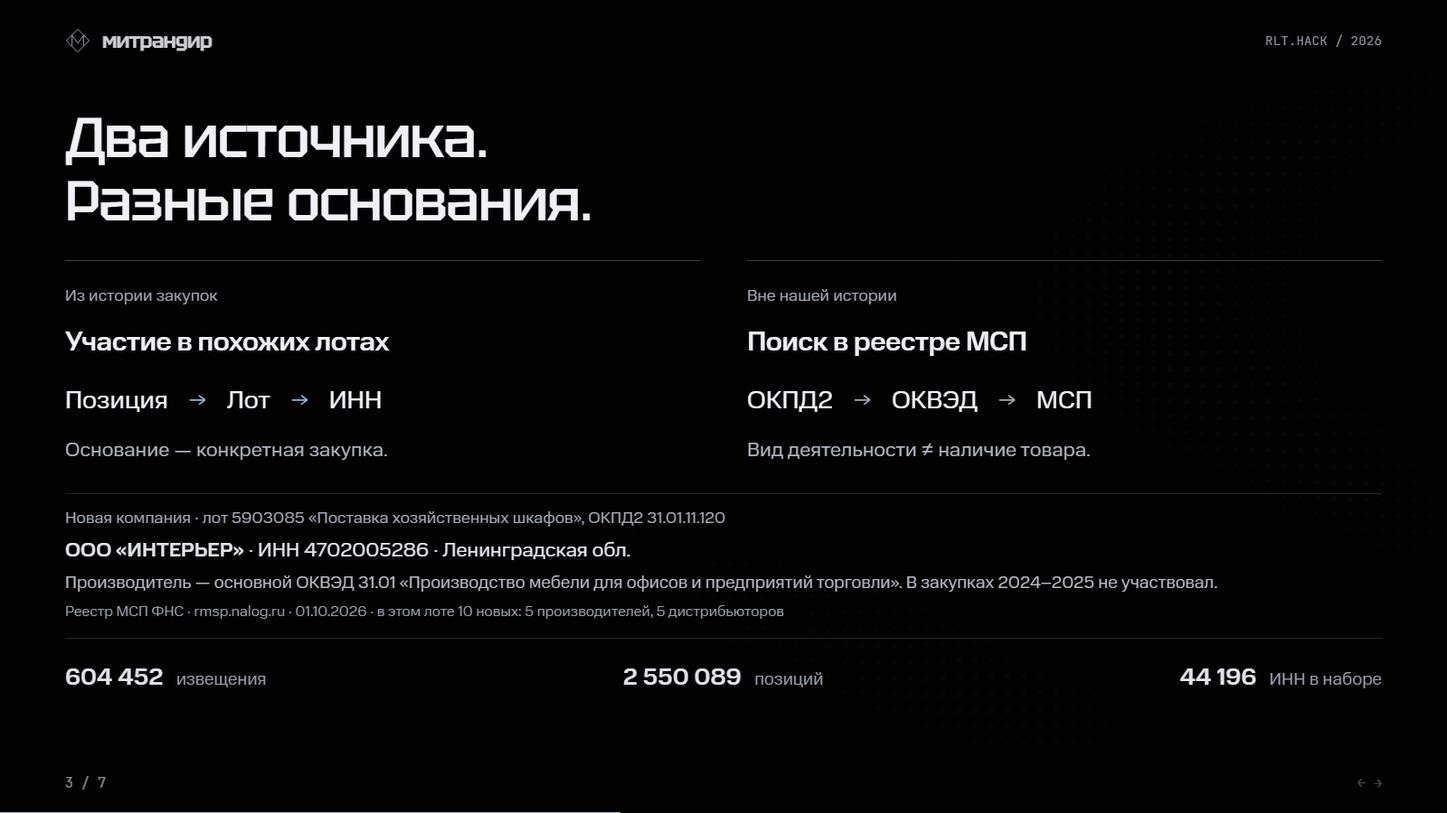
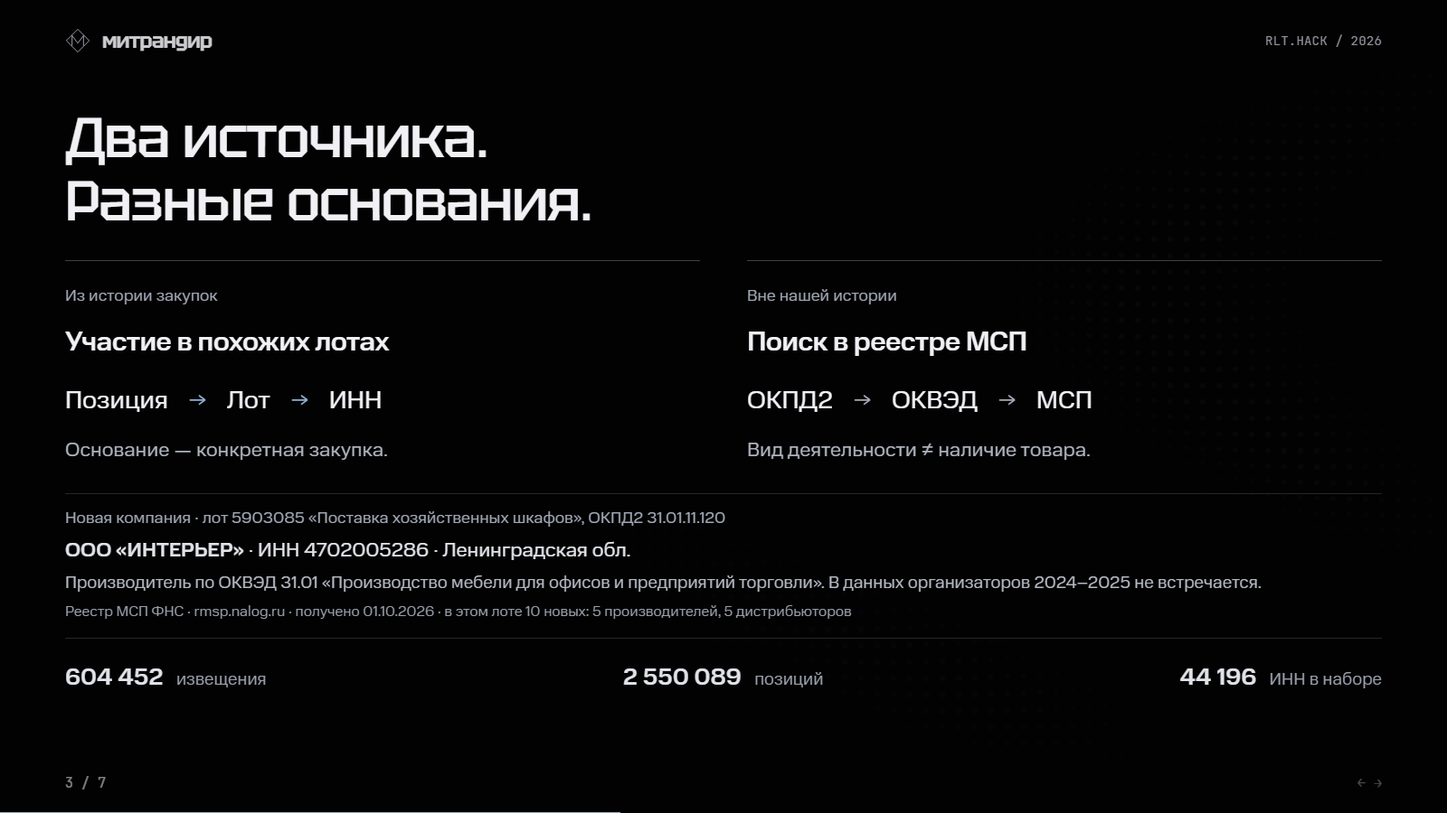
app: ревью #418 — storyboard/defense-structure/outline без «пустого блока», формулировки S3 по ответу продукта, анимация .new-example, content-check сверяет название, ОКВЭД, дату и разбивку ролей (#415)

Changed region(s): [[0.125, 0.6844, 0.875, 0.7778]]

diff --git a/presentation/index.html b/presentation/index.html
@@ -30,9 +30,9 @@
  <article class="candidate-branch"><span class="branch-label">Из истории закупок</span><h2>Участие в похожих лотах</h2><div class="branch-route"><span>Позиция</span><b>→</b><span>Лот</span><b>→</b><span>ИНН</span></div><p>Основание — конкретная закупка.</p></article>
  <article class="candidate-branch registry"><span class="branch-label">Вне нашей истории</span><h2>Поиск в реестре МСП</h2><div class="branch-route"><span>ОКПД2</span><b>→</b><span>ОКВЭД</span><b>→</b><span>МСП</span></div><p>Вид деятельности ≠ наличие товара.</p></article>
 </div>
-<div class="new-example"><span class="branch-label">Новая компания · лот 5903085 «Поставка хозяйственных шкафов», ОКПД2 31.01.11.120</span><p class="new-example-name"><b>ООО «ИНТЕРЬЕР»</b> · ИНН 4702005286 · Ленинградская обл.</p><p>Производитель — основной ОКВЭД 31.01 «Производство мебели для офисов и предприятий торговли». В закупках 2024–2025 не участвовал.</p><p class="new-example-source">Реестр МСП ФНС · rmsp.nalog.ru · 01.10.2026 · в этом лоте 10 новых: 5 производителей, 5 дистрибьюторов</p></div>
+<div class="new-example"><span class="branch-label">Новая компания · лот 5903085 «Поставка хозяйственных шкафов», ОКПД2 31.01.11.120</span><p class="new-example-name"><b>ООО «ИНТЕРЬЕР»</b> · ИНН 4702005286 · Ленинградская обл.</p><p>Производитель по ОКВЭД 31.01 «Производство мебели для офисов и предприятий торговли». В данных организаторов 2024–2025 не встречается.</p><p class="new-example-source">Реестр МСП ФНС · rmsp.nalog.ru · получено 01.10.2026 · в этом лоте 10 новых: 5 производителей, 5 дистрибьюторов</p></div>
 <div class="corpus-strip"><span><b>604 452</b> извещения</span><span><b>2 550 089</b> позиций</span><span><b>44 196</b> ИНН в наборе</span></div>
-<aside class="speaker-note" hidden>В обработанных данных — более шестисот тысяч извещений. Для компаний из истории мы используем прямые связи с конкретными закупками. Для компаний вне истории реализована отдельная ветка: сопоставление ОКПД2 и ОКВЭД и поиск в реестре МСП. Это другой тип основания: подходящий вид деятельности ещё не доказывает наличие конкретного товара. Поэтому такие кандидаты выделены отдельно. Пример — лот 5903085, поставка хозяйственных шкафов: кроме двадцати компаний из истории сервис нашёл десять новых, которых нет в данных организаторов. Например, ООО «Интерьер» из Ленинградской области: основной ОКВЭД — производство офисной мебели, значит вероятно производитель; запись реестра МСП ФНС от первого октября. Мы честно пишем, что это совпадение по виду деятельности, а не по конкретному товару.<br><br>Переход: Основной путь запроса устроен следующим образом</aside></section>
+<aside class="speaker-note" hidden>В обработанных данных — более шестисот тысяч извещений. Для компаний из истории мы используем прямые связи с конкретными закупками. Для компаний вне истории реализована отдельная ветка: сопоставление ОКПД2 и ОКВЭД и поиск в реестре МСП. Это другой тип основания: подходящий вид деятельности ещё не доказывает наличие конкретного товара. Поэтому такие кандидаты выделены отдельно. Пример — лот 5903085, поставка хозяйственных шкафов: кроме кандидатов из истории сервис нашёл десять новых компаний, которых нет в данных организаторов. Например, ООО «Интерьер» из Ленинградской области: основной ОКВЭД — производство офисной мебели, значит вероятно производитель; данные реестра МСП ФНС получены первого октября. Мы честно пишем, что это совпадение по виду деятельности, а не по конкретному товару.<br><br>Переход: Основной путь запроса устроен следующим образом</aside></section>
 
 <section class="slide" id="s4" data-title="Находим позиции. Собираем компании." data-seconds="55" data-kind="main" aria-label="Находим позиции. Собираем компании." hidden>
 

diff --git a/presentation/ui-design.css b/presentation/ui-design.css
@@ -188,7 +188,6 @@
 .branch-route{display:flex;align-items:center;gap:22px;font:28px var(--body)}
 .branch-route b{font:24px var(--body);color:#92afd4}.registry .branch-route b{color:#aaa8b6}
 .candidate-branch p{font:22px var(--body);color:#aeb3bd;margin:20px 0 0}
-.new-candidates-note{font:20px var(--body);color:#b4b8c2;margin:13px 0 32px}
 .new-example{margin:6px 0 18px;padding:14px 0 0;border-top:1px solid #ffffff25}
 .new-example p{font:19px/1.35 var(--body);color:#b4b8c2;margin:8px 0 0}
 .new-example .new-example-name{font:22px var(--body);color:#e1e3e9}.new-example-name b{font-weight:500}

diff --git a/presentation/motion.js b/presentation/motion.js
@@ -130,7 +130,7 @@
   }
   const objects = {
     s1:'.brand-title, .hero .lead, .hero-result',
-    s3:'.candidate-branch, .new-candidates-note, .corpus-strip',
+    s3:'.candidate-branch, .new-example, .corpus-strip',
     s2:'.scenario-rail, .demo-panel:not([hidden])',
     s4:'.lane-label, .prep .node, .query-flow .node, .architecture-foot',
     s5:'.evidence-card, .factor, .score-total, .takeaway',

diff --git a/presentation/storyboard.md b/presentation/storyboard.md
@@ -39,12 +39,12 @@
 - Вопрос аудитории: Откуда берутся кандидаты и чем отличаются основания?
 - Главный тезис: Два источника. Разные основания..
 - Бюджет: 35 секунд, 1:10–1:45.
-- Текст на экране: Два источника. Разные основания. Из истории закупок Участие в похожих лотах Позиция → Лот → ИНН Основание — конкретная закупка. Вне нашей истории Поиск в реестре МСП ОКПД2 → ОКВЭД → МСП Вид деятельности ≠ наличие товара. В показанном примере новых компаний нет. 604 452 извещения 2 550 089 позиций 44 196 ИНН в наборе
-- Визуальный объект: Две ветки в равноправных колонках; история даёт участия, реестр — вид деятельности. Внизу масштаб набора и честная отметка пустого блока новых компаний.
+- Текст на экране: Два источника. Разные основания. Из истории закупок Участие в похожих лотах Позиция → Лот → ИНН Основание — конкретная закупка. Вне нашей истории Поиск в реестре МСП ОКПД2 → ОКВЭД → МСП Вид деятельности ≠ наличие товара. Новая компания · лот 5903085 «Поставка хозяйственных шкафов», ОКПД2 31.01.11.120 ООО «ИНТЕРЬЕР» · ИНН 4702005286 · Ленинградская обл. Производитель по ОКВЭД 31.01 «Производство мебели для офисов и предприятий торговли». В данных организаторов 2024–2025 не встречается. Реестр МСП ФНС · rmsp.nalog.ru · получено 01.10.2026 · в этом лоте 10 новых: 5 производителей, 5 дистрибьюторов 604 452 извещения 2 550 089 позиций 44 196 ИНН в наборе
+- Визуальный объект: Две ветки в равноправных колонках; история даёт участия, реестр — вид деятельности. Внизу масштаб набора и пример новой компании из реестра МСП (лот 5903085).
 
 ### Текст выступления
 
-В обработанных данных — более шестисот тысяч извещений. Для компаний из истории мы используем прямые связи с конкретными закупками. Для компаний вне истории реализована отдельная ветка: сопоставление ОКПД2 и ОКВЭД и поиск в реестре МСП. Это другой тип основания: подходящий вид деятельности ещё не доказывает наличие конкретного товара. Поэтому такие кандидаты выделены отдельно. В показанном офлайн-примере блок новых компаний пуст; мы не выдаём его за подтверждённое расширение именно этой выдачи.
+В обработанных данных — более шестисот тысяч извещений. Для компаний из истории мы используем прямые связи с конкретными закупками. Для компаний вне истории реализована отдельная ветка: сопоставление ОКПД2 и ОКВЭД и поиск в реестре МСП. Это другой тип основания: подходящий вид деятельности ещё не доказывает наличие конкретного товара. Поэтому такие кандидаты выделены отдельно. Пример — лот 5903085, поставка хозяйственных шкафов: кроме кандидатов из истории сервис нашёл десять новых компаний, которых нет в данных организаторов. Например, ООО «Интерьер» из Ленинградской области: основной ОКВЭД — производство офисной мебели, значит вероятно производитель; данные реестра МСП ФНС получены первого октября. Мы честно пишем, что это совпадение по виду деятельности, а не по конкретному товару.
 
 ### Переход
 
@@ -167,12 +167,12 @@ B — лучший BM25 компании, делённый на максимум
 
 - Вопрос аудитории и тезис: Что происходит с компанией без истории?
 - Бюджет: ориентир 20–30 секунд на ответ, вне основного маршрута.
-- Текст на экране: Поставщики без истории ЕСТЬ В ИСТОРИИ 604 452 лота 44 196 ИНН Позиции → лоты → участники NULL: КПП в 191 359 участиях; ИНН заказчика в 8 449 извещениях. + ОТДЕЛЬНЫЙ БЛОК «НОВЫЕ» ОКПД2 → ОКВЭД → реестр МСП ИНН отсутствует в истории + проверка источников фактов В выбранном офлайн-примере пуст. ОКВЭД — основание кандидата, не подтверждение нужного товара Локальная проверка Parquet · ingest 01.10.2026 · сопоставление ОКПД2 / ОКВЭД эвристическое
+- Текст на экране: Поставщики без истории ЕСТЬ В ИСТОРИИ 604 452 лота 44 196 ИНН Позиции → лоты → участники NULL: КПП в 191 359 участиях; ИНН заказчика в 8 449 извещениях. + ОТДЕЛЬНЫЙ БЛОК «НОВЫЕ» ОКПД2 → ОКВЭД → реестр МСП ИНН отсутствует в истории + проверка источников фактов Лот 5903085: 10 новых вне истории (5 производителей, 5 дистрибьюторов по ОКВЭД). ОКВЭД — основание кандидата, не подтверждение нужного товара Локальная проверка Parquet · ingest 01.10.2026 · сопоставление ОКПД2 / ОКВЭД эвристическое
 - Визуальный объект: две ветки происхождения кандидатов.
 
 ### Текст ответа
 
-Основной подбор опирается на связь компании с лотами. Если этой истории нет, реализована отдельная ветка: код категории сопоставляется с ОКВЭД, в реестре МСП ищутся компании, их ИНН проверяются на отсутствие в истории и факты проходят Evidence. Сопоставление категорий с оптовой торговлей задано вручную. Поэтому основание новой рекомендации слабее прямого свидетельства по позиции; роль по ОКВЭД не доказывает производство конкретного товара. В выбранном офлайн-запросе новых компаний нет. Данные организаторов тоже неполны: у части участий отсутствует КПП, а у части извещений — ИНН заказчика. Переход: Вернуться к основному экрану / выбрать другой вопрос.
+Основной подбор опирается на связь компании с лотами. Если этой истории нет, реализована отдельная ветка: код категории сопоставляется с ОКВЭД, в реестре МСП ищутся компании, их ИНН проверяются на отсутствие в истории и факты проходят Evidence. Сопоставление категорий с оптовой торговлей задано вручную. Поэтому основание новой рекомендации слабее прямого свидетельства по позиции; роль по ОКВЭД не доказывает производство конкретного товара. В примере лота 5903085 блок дал десять новых компаний вне истории: пять производителей и пять дистрибьюторов по ОКВЭД, у каждой факты реестра МСП с адресом и датой. Данные организаторов тоже неполны: у части участий отсутствует КПП, а у части извещений — ИНН заказчика. Переход: Вернуться к основному экрану / выбрать другой вопрос.
 
 ### Возврат
 

diff --git a/pitch/outline.md b/pitch/outline.md
@@ -110,7 +110,7 @@
 | 1 | Анализ данных | профиль и 3 инсайта есть |
 | 2 | Бизнес-смысл полей | словарь v0: 18 полей, 3 помечены «проверить» — спросим сегодня |
 | 3 | Методология | v2 (D-077, подтверждена 01.10): в балле 3 компоненты из 6, география показывается; выше трёх baseline по recall@10 |
-| 4 | Открытые источники | блок «Новые» пуст, поиск не подключён (#16) |
+| 4 | Открытые источники | блок «Новые» подключён: лот 5903085 — 10 новых вне истории (`presentation/assets/example-new.json`, #415) |
 | 5 | Обогащение | карточка из ФНС с источниками; запасные источники не сделаны |
 | 6 | Веб-интерфейс | интерфейс подключён к настоящему поиску, не к заглушке; на данных организаторов показываем вживую; автотест сценария — на синтетических данных |
 | 7 | Реальные кейсы | кейсы собраны, прогон есть (`E-003-real.json`); покейсового разбора нет |
